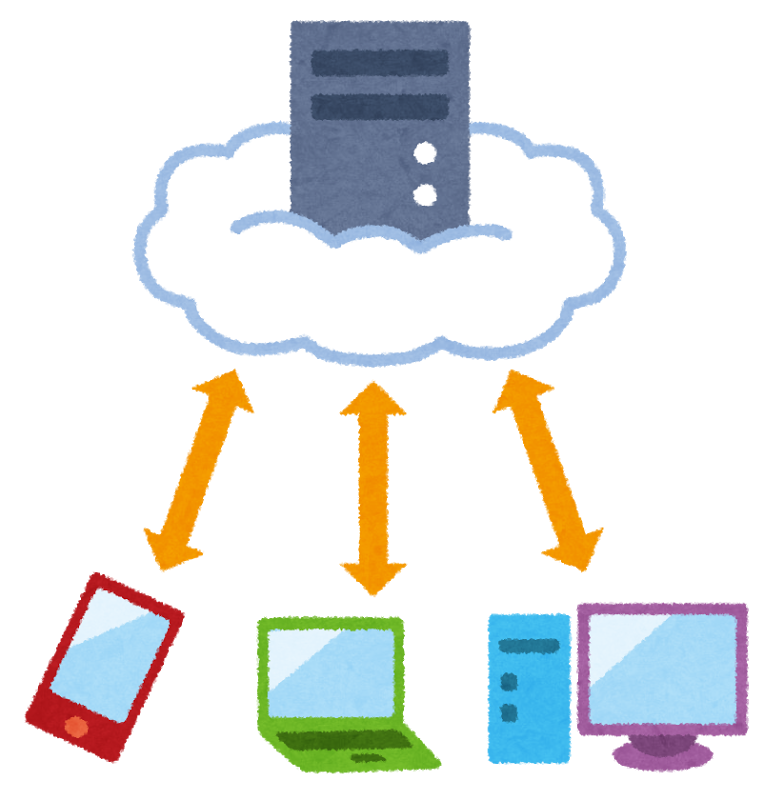
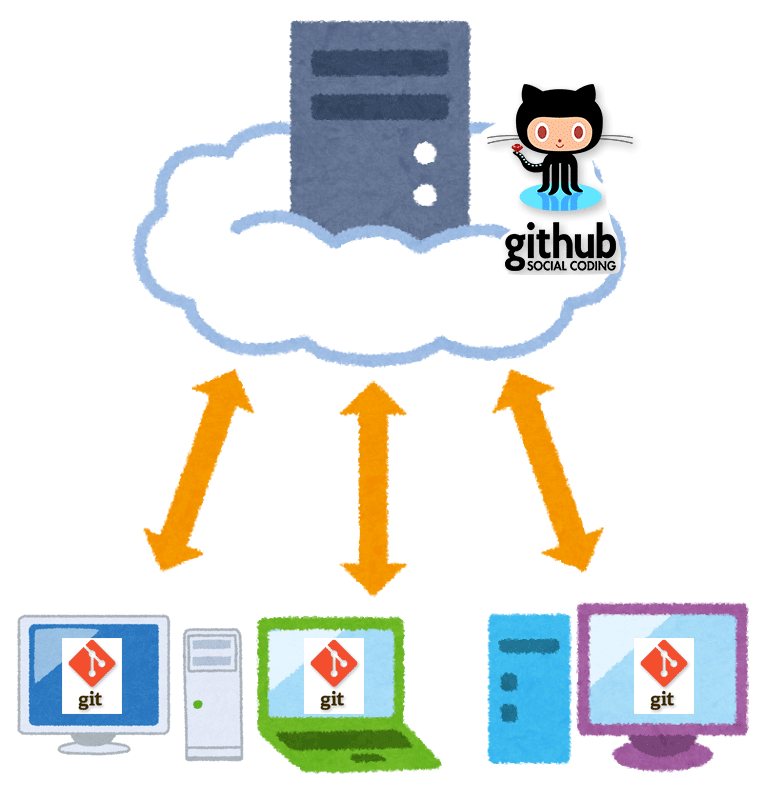
ADD:File image

diff --git a/index.html b/index.html
@@ -193,7 +193,7 @@
       <div class="contents-box">
         <h3>ローカルリポジトリとリポートリポジトリ</h3>
         <div class="img-box">
-            <img src="img/6.png">
+            <img src="img/13.png">
         </div>
         <div>
           <p>各ローカルマシンのリポジトリで行われた開発を、リポートリポジトリに反映。</p>
